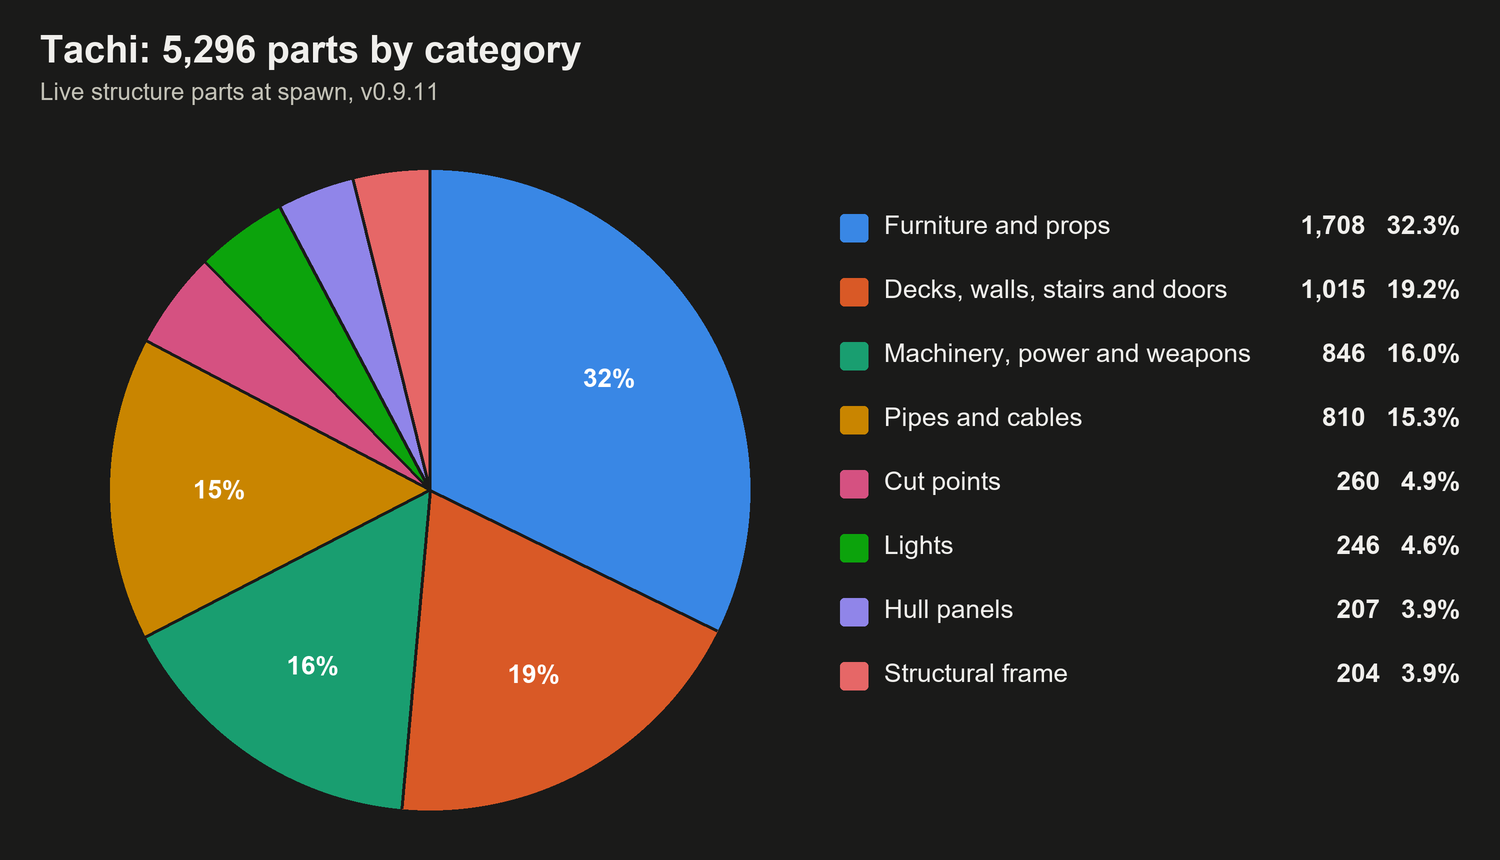
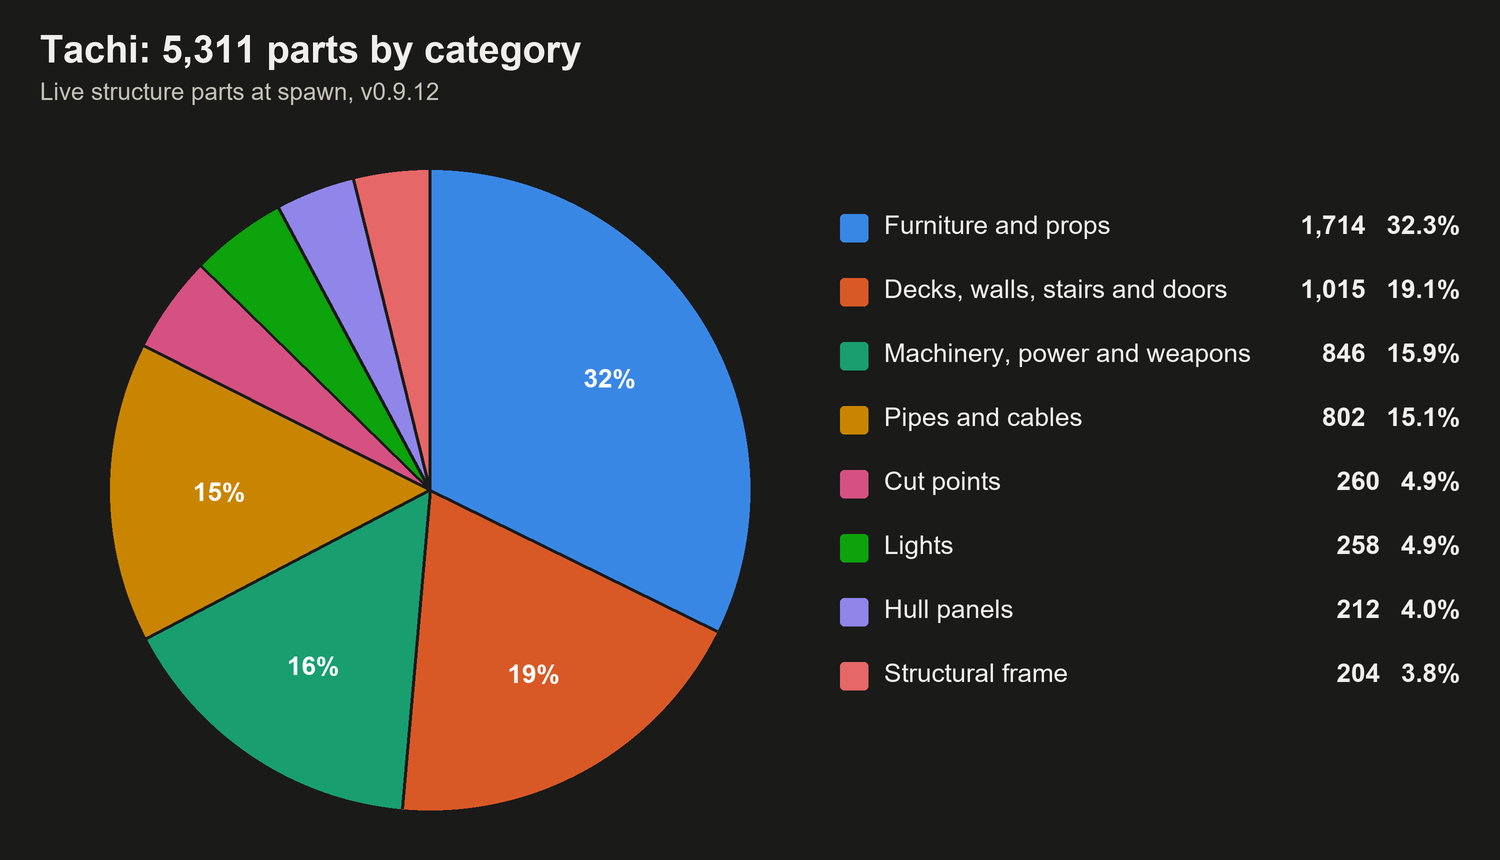
MCRN Corvette docs: v0.9.12 figures, charts and changelog
Part counts updated by arithmetic from the parts log (not a new census):
MCRN Tachi 5,309, Rocinante 5,213, Gas Hauler 5,734 counted at load.
Rocinante railgun and its 20-slug loader crate added to the stats and page.

diff --git a/Docs/Tachi_Ship_Statistics.md b/Docs/Tachi_Ship_Statistics.md
@@ -2,7 +2,7 @@
 
 A custom salvage ship for Hardspace: Shipbreaker, modeled on the MCRN Corvette-class light frigate *Tachi* from *The Expanse*.
 
-Version 0.9.11, 23 November 2026. The v0.9.11 figures are the v0.9.10 measurements below changed by simple arithmetic: the cryo ring was rebuilt with longer pipes (12 straight pipes fewer, 2 cut points more, so 10 parts fewer on every variant), and ghost ships carry a 60th Protomolecule node. The Rocinante's count was logged on a load of this build (5,181 parts, normal ship). The paragraph below describes the v0.9.10 measurements. The MCRN Tachi figures, its categories and its loose parts are from a load of the v0.9.10 build on 23 November, with the mod's spawn census. The Gas Hauler's part counts, loose parts and cut points are from a load of the same day as a ghost ship; its normal-ship counts are those less its 59 nodes. The Rocinante was not loaded on this build: its figures are its v0.9.9 counts plus the 94 parts the base ship gained (the point defense housings rebuilt, the rings cut in eight, the fore hull regrouped). The section tables are from the v0.9.8 census and were not re-measured. "Measured" means taken from the game or the editor on that build. "Estimate" means calculated, with the method given.
+Version 0.9.12, 24 November 2026. The v0.9.12 figures are the v0.9.11 figures below changed by simple arithmetic from the parts log kept while building, not a new census: on every variant 5 slot covers close the gaps in the Engineering ceiling, the four generators became the stock generator with its 3 status lights each (12 lights), 6 PDC ammo posters hang on the ammo crates, and the 8 reactor injector nozzles (6 pipe pieces each) became a 5-part thruster nozzle (8 parts fewer); the Rocinante also gains its railgun ammo poster and 2 generators on the railgun breech (17 parts). The v0.9.11 figures were the v0.9.10 measurements below changed by simple arithmetic: the cryo ring was rebuilt with longer pipes (12 straight pipes fewer, 2 cut points more, so 10 parts fewer on every variant), and ghost ships carry a 60th Protomolecule node. The Rocinante's count was logged on a load of this build (5,181 parts, normal ship). The paragraph below describes the v0.9.10 measurements. The MCRN Tachi figures, its categories and its loose parts are from a load of the v0.9.10 build on 23 November, with the mod's spawn census. The Gas Hauler's part counts, loose parts and cut points are from a load of the same day as a ghost ship; its normal-ship counts are those less its 59 nodes. The Rocinante was not loaded on this build: its figures are its v0.9.9 counts plus the 94 parts the base ship gained (the point defense housings rebuilt, the rings cut in eight, the fore hull regrouped). The section tables are from the v0.9.8 census and were not re-measured. "Measured" means taken from the game or the editor on that build. "Estimate" means calculated, with the method given.
 
 ## At a glance
 
@@ -11,7 +11,7 @@ Version 0.9.11, 23 November 2026. The v0.9.11 figures are the v0.9.10 measuremen
 | Length (engine bell to antenna tip) | 133.7 m |
 | Beam (port to starboard, over the gun mounts) | 54.6 m (Gas variant, over the tank racks: 67.2 m) |
 | Height (dorsal to ventral) | 46.3 m (Gas variant: 55.1 m) |
-| Parts counted at load | 5,294 (MCRN Tachi) · 5,181 (Rocinante) · 5,719 (Gas variant), all v0.9.11 |
+| Parts counted at load | 5,309 (MCRN Tachi) · 5,213 (Rocinante) · 5,734 (Gas variant), all v0.9.12 |
 | As a ghost ship | 60 Protomolecule nodes and 252 growth patches more (see Ghost ship content) |
 | Cut points | 260 (Gas variant: 343) |
 | Loose items at spawn | 183 (props, pickups and one floating corpse, in one of six places) |
@@ -70,12 +70,12 @@ If the game sits on the loading screen for more than ten minutes, treat it as a 
 
 | | |
 |---|---|
-| Live parts at spawn (every piece the game simulates) | 5,296 (v0.9.11; 5,306 on v0.9.10) |
-| Parts counted by the game's joint pass | 5,294 (v0.9.11; 5,304 on v0.9.10) |
+| Live parts at spawn (every piece the game simulates) | 5,311 (v0.9.12; 5,296 on v0.9.11) |
+| Parts counted by the game's joint pass | 5,309 (v0.9.12; 5,294 on v0.9.11) |
 | Objects in the ship that never become parts | 260 (see below) |
 | Largest mesh | `Suit_Hanging` (a stock hanging suit), 17,136 vertices |
 | Part ceiling at that mesh size | 7,832 |
-| Headroom | 2,538 parts |
+| Headroom | 2,523 parts |
 
 **The part ceiling.** While the ship loads, the game multiplies the number of parts by the vertex count of the largest single mesh. If that product passes 134,217,728 the game crashes on load. With the current largest mesh that allows 7,832 parts. Adding parts, or adding one mesh larger than 17,136 vertices, both use up the headroom. The rebuilt point defense housings took the ship's own largest mesh (18,291 vertices) below the stock suit's.
 
@@ -93,16 +93,16 @@ If the game sits on the loading screen for more than ten minutes, treat it as a 
 
 | Category | Parts | Share |
 |---|---|---|
-| Furniture and props | 1,708 | 32.3 % |
-| Decks, walls, stairs and doors | 1,015 | 19.2 % |
-| Machinery, power and weapons | 846 | 16.0 % |
-| Pipes and cables | 810 | 15.3 % |
+| Furniture and props | 1,714 | 32.3 % |
+| Decks, walls, stairs and doors | 1,015 | 19.1 % |
+| Machinery, power and weapons | 846 | 15.9 % |
+| Pipes and cables | 802 | 15.1 % |
 | Cut points | 260 | 4.9 % |
-| Lights | 246 | 4.6 % |
-| Hull panels | 207 | 3.9 % |
-| Structural frame | 204 | 3.9 % |
+| Lights | 258 | 4.9 % |
+| Hull panels | 212 | 4.0 % |
+| Structural frame | 204 | 3.8 % |
 
-The category table is from the v0.9.10 census of the MCRN Tachi. Against v0.9.9 the rebuilt point defense housings add 91 machinery parts, and the regrouped fore hull adds 4 cut points. In v0.9.11 the rebuilt cryo ring has 12 straight pipes fewer and 2 cut points more. The section tables are from the v0.9.8 census of the Rocinante, with the MCRN Tachi's 106 extra furniture parts added to the interior, where they all are. Four pipe pieces at the fore thermal vents carry the cut point type so that they do not joint to the vents; they are counted here as pipe.
+The category table is from the v0.9.10 census of the MCRN Tachi. Against v0.9.9 the rebuilt point defense housings add 91 machinery parts, and the regrouped fore hull adds 4 cut points. In v0.9.11 the rebuilt cryo ring has 12 straight pipes fewer and 2 cut points more. In v0.9.12 the posters add 6 furniture parts, the generator status lights 12 lights, the ceiling slot covers 5 hull panels, and the new injector nozzles count 8 pipe parts fewer. The section tables are from the v0.9.8 census of the Rocinante, with the MCRN Tachi's 106 extra furniture parts added to the interior, where they all are. Four pipe pieces at the fore thermal vents carry the cut point type so that they do not joint to the vents; they are counted here as pipe.
 
 Categories are assigned from each part's joint type and name. The rules were rewritten for v0.9.5, so these shares are not comparable with earlier versions of this document.
 
@@ -121,11 +121,11 @@ The floating corpse and its suit (14 parts) spawn in one of six places. In this 
 
 ### Loose parts
 
-At spawn the main structure is one body of 5,113 parts. Two fittings are loose in this build: a railing and a thruster terminal.
+At spawn the main structure is one body of 5,128 parts (v0.9.12, calculated: every part added since the census is jointed to the ship). Two fittings are loose in this build: a railing and a thruster terminal.
 
 | | |
 |---|---|
-| Main structure | 5,113 parts in one body |
+| Main structure | 5,128 parts in one body |
 | Loose parts | 183, in 159 separate bodies |
 | Loose single items | 150 |
 | Loose bodies of more than one part | 9 |
@@ -215,12 +215,12 @@ The ship comes in three versions, each listed as its own ship in Free Play and o
 
 | | MCRN Tachi (base) | Rocinante | Beratnas Gas Hauler |
 |---|---|---|---|
-| What differs | | Colors as an independent warship, Belter posters, less furniture | Colors, 24 external tanks on trusses, point defense cannons removed, own bay pose, Belter posters, less furniture |
+| What differs | | Colors as an independent warship, keel railgun with its ammo crate and 2 generators on the breech, Belter posters, less furniture | Colors, 24 external tanks on trusses, point defense cannons removed, own bay pose, Belter posters, less furniture |
 | How it is picked | Own ship entry | Own ship entry | Own ship entry |
-| Live parts at spawn | 5,296 (v0.9.11, see Parts) | 5,183 (calculated) | 5,721 (5,781 as a ghost ship) |
-| Parts counted by the joint pass | 5,294 | 5,181 as a normal ship (logged), 5,241 as a ghost ship | 5,719 as a normal ship, 5,779 as a ghost ship |
-| Headroom under the part ceiling | 2,538 | 2,651 (2,591 as a ghost ship) | 2,113 (2,053 as a ghost ship) |
-| Main structure | 5,113 | 5,003 (logged) | 5,591 as a ghost ship |
+| Live parts at spawn | 5,311 (v0.9.12, see Parts) | 5,215 (calculated) | 5,736 (5,796 as a ghost ship) |
+| Parts counted by the joint pass | 5,309 | 5,213 as a normal ship, 5,273 as a ghost ship | 5,734 as a normal ship, 5,794 as a ghost ship |
+| Headroom under the part ceiling | 2,523 | 2,619 (2,559 as a ghost ship) | 2,098 (2,038 as a ghost ship) |
+| Main structure | 5,128 | 5,035 | 5,606 as a ghost ship |
 | Loose parts | 183 in 159 bodies | about 180 in 156 bodies | 190 in 160 bodies, as a ghost ship |
 | Cut points | 260 | 260 | 343 |
 | Size (length x beam x height) | 133.7 x 54.6 x 46.3 m | same | 133.7 x 67.2 x 55.1 m |
@@ -233,12 +233,13 @@ The ship comes in three versions, each listed as its own ship in Free Play and o
 | Floating corpse | one, in one of 6 places, as one of 7 factions, each with its own suit colors and visor | same | same |
 | As a ghost ship | 60 Protomolecule nodes, 252 growth patches | same | same |
 
-Figures are the v0.9.10 measurements (MCRN Tachi and Gas Hauler, loads of 23 November) less the 10 parts the cryo ring lost in v0.9.11; ghost counts include the 60th node. The Rocinante's joint-pass count and main structure are from a load of the v0.9.11 build.
+Figures are the v0.9.10 measurements (MCRN Tachi and Gas Hauler, loads of 23 November) less the 10 parts the cryo ring lost in v0.9.11, plus the v0.9.12 changes (15 parts on every variant, 17 more on the Rocinante); ghost counts include the 60th node. The Rocinante's v0.9.11 joint-pass count and main structure were logged on a load of that build.
 
 **Interior differences.** The three ships share one interior, with these differences:
 
 - **Posters.** Thirty wall posters are MCRN posters in the MCRN Tachi (MCRN Colors, MCRN Logo, MCRN Corvette, Mars Needs You) and Belter posters in the other two (OPA, three Remember the Cant designs, Beltalowda, Tycho, Ceres Water). The poster objects are the same; only the picture differs.
 - **Bunks.** The six crew cabins on Decks 3 and 4 hold 14 two-tier bunks in the MCRN Tachi (28 berths) and one two-tier bunk each in the other two (6 bunks, 12 berths). The 5 medbay beds are in all three and are not counted as crew bunks.
+- **Ammo posters.** All three carry a point defense ammo poster on one crate of each of the six ammo stacks (crawlspace and weapons storage). The Rocinante adds a railgun slug poster on the railgun's loader crate in Weapons Control.
 - **Galley.** The other two ships have no corner tables: three tables, six chairs and the three bottles on them are switched off. The center table and the long table are in all three.
 
 Switched-off objects are still in the download, so the size is the same. These differences were checked in the editor, not yet in game, and the part counts above were measured before them.
@@ -320,6 +321,7 @@ Sizes and masses were measured on an earlier 18 November build and not re-measur
 | Point defense cannons | 6: fore port, fore starboard, mid port, mid starboard, aft dorsal, aft ventral |
 | Torpedo tubes | 2 (dorsal and ventral) |
 | Torpedoes aboard | 12: five per tube plus two on ceiling racks |
+| Railgun (Rocinante only) | 1 keel railgun, loaded from Weapons Control; its loader crate holds 20 slugs |
 | Crew bunks | 28 berths in 14 two-tier bunks (12 in 6 bunks in the Rocinante and the Gas Hauler) |
 | Medbay beds | 5 |
 | Acceleration couches | 32 |
@@ -398,6 +400,7 @@ The lore gives performance figures for the Epstein drive in general, not for thi
 | Dimensions, per-section sizes | Part bounds in the Unity editor |
 | Volume | Calculated from part bounds, as described above |
 | Mass | Calculated with the game's own formula from mesh volume and material density, plus game-reported masses for stock parts |
+| v0.9.12 figures | The v0.9.11 figures changed by the parts logged while building (`.claude/parts_ledger.md`): 5 ceiling slot covers, 12 generator status lights, 6 ammo posters, 8 injector nozzles of 5 parts replacing 8 of 6 pipe pieces; Rocinante also 1 railgun poster and 2 generators of 8 parts. Not yet checked against a census |
 | v0.9.11 figures | The v0.9.10 figures changed by the parts added and removed since: the cryo ring (12 straight pipes fewer, 2 cut points more) and the 60th ghost-ship node. Rocinante: joint-pass count and main structure from the mod's spawn census on a load of 23 November, 11:16 |
 | v0.9.10 figures | The mod's spawn census on loads of 23 November: MCRN Tachi as a normal ship, Gas variant as a ghost ship (its normal-ship counts are those less 59 nodes). Rocinante: its v0.9.9 count plus the 94 parts the base ship gained |
 | v0.9.9 part counts | The v0.9.8 counts, changed by the objects added, removed and switched off in the ship's files since: none on the MCRN Tachi, 7 fewer on the Rocinante. Checked against the part counts the PartInfoLogger mod logged on two loads of 22 November: Rocinante 5,097, Gas variant 5,687. Loose parts by type: 20 floating data drives became 7 credit drives, 7 oxygen cans and 6 thruster fuel cans |
